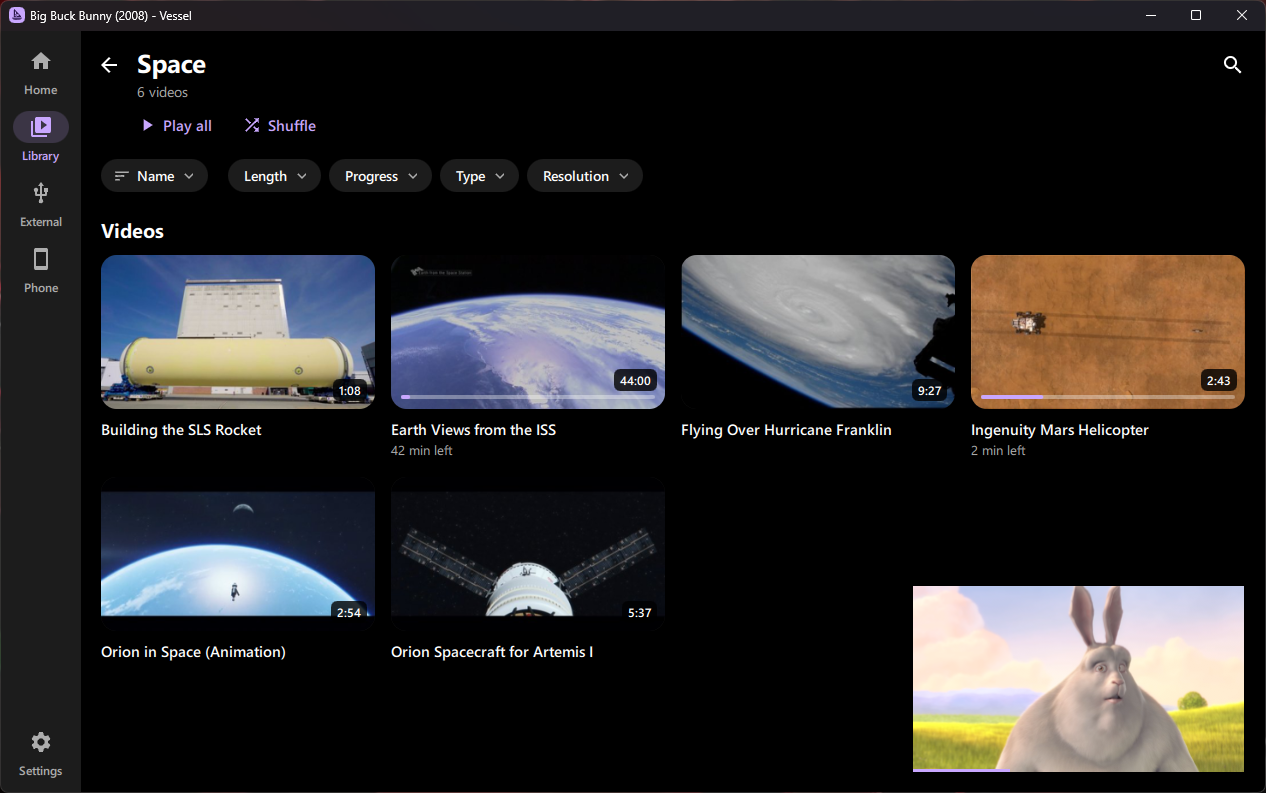
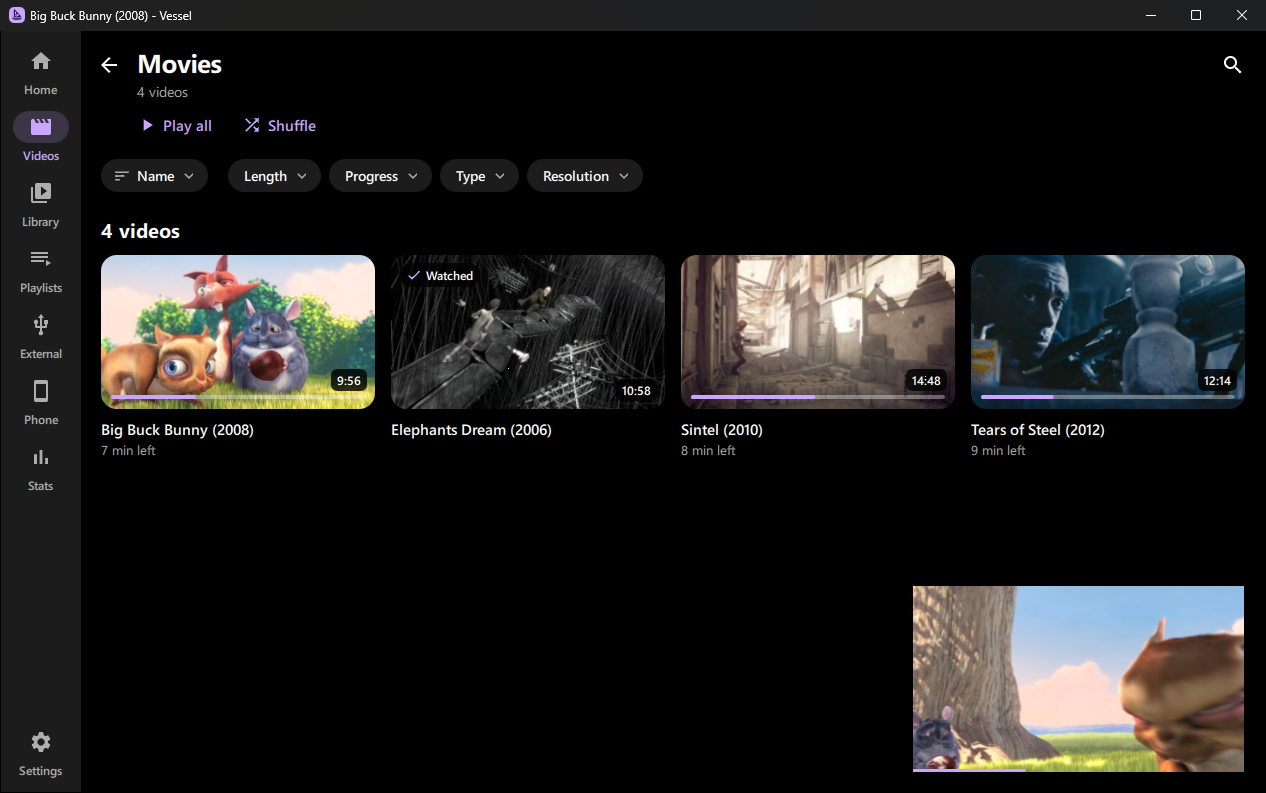
Screenshots of the app as it is now, and VESSEL_LIBRARY_DIR makes one folder the whole library for a test copy

diff --git a/src/VideoLibrary.cpp b/src/VideoLibrary.cpp
@@ -726,6 +726,10 @@ VideoLibrary::VideoLibrary(QObject *parent)
     connect(m_thumbnailer, &Thumbnailer::finished, this, &VideoLibrary::onThumbnailFinished);
 
     m_videosFolder = QDir::cleanPath(QStandardPaths::writableLocation(QStandardPaths::MoviesLocation));
+    // VESSEL_LIBRARY_DIR makes one folder the whole library and the Videos folder, for a
+    // test copy or screenshots that shouldn't show this computer's own videos.
+    if (qEnvironmentVariableIsSet("VESSEL_LIBRARY_DIR"))
+        m_videosFolder = QDir::cleanPath(QDir::fromNativeSeparators(qEnvironmentVariable("VESSEL_LIBRARY_DIR")));
     {
         // Library folders were chosen in Settings before the library was the whole computer.
         QSettings settings(m_dataDir + QStringLiteral("/settings.ini"), QSettings::IniFormat);
@@ -857,7 +861,9 @@ void VideoLibrary::updateLibrarySources()
     // The computer's own drives; elsewhere, the home folder. And the Videos folder, if it's
     // somewhere else (a network drive).
     QList<VideoSource> wanted;
-    const QList<DriveInfo> internal = m_driveWatcher->internalDrives();
+    // With VESSEL_LIBRARY_DIR, just that folder (it's the Videos folder, added below).
+    const QList<DriveInfo> internal = qEnvironmentVariableIsSet("VESSEL_LIBRARY_DIR")
+        ? QList<DriveInfo>() : m_driveWatcher->internalDrives();
     for (const DriveInfo &drive : internal) {
         VideoSource source;
         source.path = drive.rootPath;

diff --git a/README.md b/README.md
@@ -5,7 +5,7 @@ already on your PC, your drives and your phone into a library: no accounts, no
 ads, and it works offline.
 
 <p>
-  <img src="docs/img/windows-home.png" alt="Vessel on Windows, showing Continue watching, recently added videos and library folders">
+  <img src="docs/img/windows-home.png" alt="Vessel on Windows, showing Continue watching and Quick picks, with the tabs down the side">
 </p>
 <p>
   <img src="docs/img/windows-watch.png" width="49%" alt="Vessel's watch page, with the video, its details and the rest of the folder up next">
@@ -77,6 +77,8 @@ For testing and profiling:
 
 - `VESSEL_DATA_DIR=<folder>` points the app at its own settings, history and thumbnail cache, so a
   test copy can't touch your real ones.
+- `VESSEL_LIBRARY_DIR=<folder>` makes that one folder the whole library (and the Videos folder),
+  instead of the computer's drives: for a test copy, or screenshots with demo videos.
 - `QT_LOGGING_RULES=vessel.perf.debug=true` logs how long scans and library updates take.
 
 ### Installer and Android
